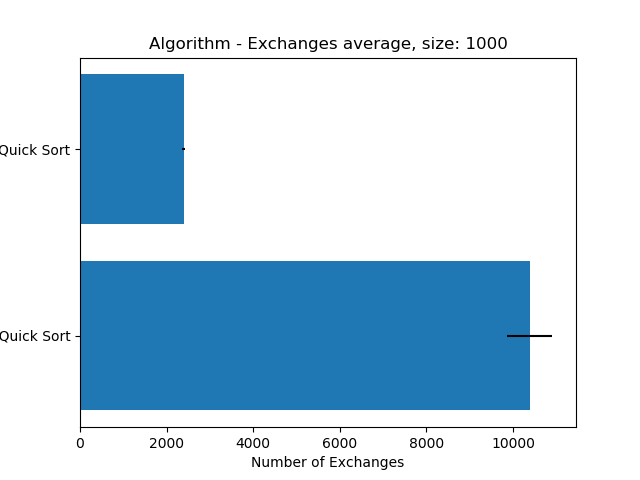
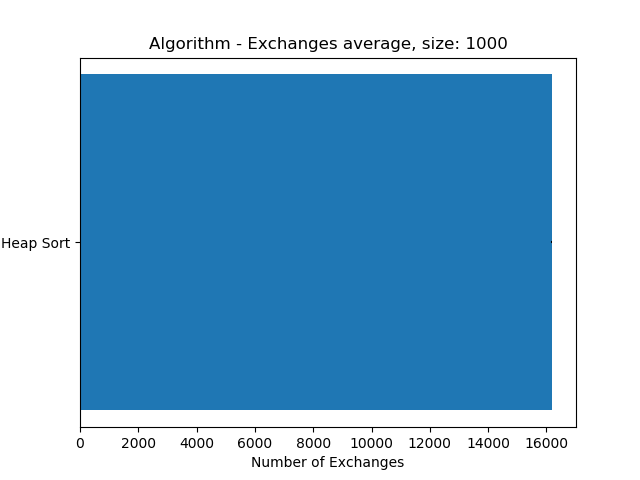
Feat(HeapSort)

diff --git a/Sort Compare/sort.py b/Sort Compare/sort.py
@@ -21,7 +21,8 @@ def get_sort_name(sort_id: str) -> str:
     dic = {'shell_sort': 'Shell Sort', 'selection_sort': 'Selection Sort',
            'insertion_sort': 'Insertion Sort', 'binary_insertion_sort': 'Binary Search Sort',
            'merge_sort': 'Merge Sort', 'quick_sort': 'Quick Sort', 'bubble_sort': 'Bubble Sort',
-           'comb_sort': 'Comb Sort', 'shake_sort': 'Shake Sort', 'improved_quick_sort': 'Improved Quick Sort'}
+           'comb_sort': 'Comb Sort', 'shake_sort': 'Shake Sort', 'improved_quick_sort': 'Improved Quick Sort',
+           'heap_sort': 'Heap Sort'}
     return dic[sort_id]
 
 
@@ -29,7 +30,8 @@ def get_sort_function(sort_id: str) -> function:
     dic = {'shell_sort': shell_sort, 'selection_sort': selection_sort,
            'insertion_sort': insertion_sort, 'binary_insertion_sort': binary_insertion_sort,
            'merge_sort': merge_sort, 'quick_sort': quick_sort, 'bubble_sort': bubble_sort,
-           'comb_sort': comb_sort, 'shake_sort': shake_sort, 'improved_quick_sort': improved_quick_sort}
+           'comb_sort': comb_sort, 'shake_sort': shake_sort, 'improved_quick_sort': improved_quick_sort,
+           'heap_sort': heap_sort}
     return dic[sort_id]
 
 
@@ -408,6 +410,122 @@ def exchange(arr: list, i: int, j: int):
     t = arr[i]
     arr[i] = arr[j]
     arr[j] = t
+
+
+# Heapsort e funções auxiliares
+def heap_sort(array: list) -> (list, int, int):
+    compares = 0
+    exchanges = 0
+    heap_size = len(array)
+    qtd_elementos = heap_size - 1
+
+    compares, exchanges = build_heap_auxiliar(array, compares, exchanges)
+
+    for i in range(qtd_elementos, 0, -1):
+        compares += 1
+        array[i], array[0] = array[0], array[i]  # troca
+        heap_size = heap_size - 1
+        compares, exchanges = heapify(array, 0, heap_size, compares, exchanges)
+
+    return array, compares, exchanges
+
+# igual a seguinte, mas faz o registro do log com base em operações anteriores e posteriores para que o heap_sort conte-as direito
+def build_heap_auxiliar(array: list, compares: int, exchanges: int) -> (int, int):
+    ultimo_pai = math.floor(len(array)/2)-1
+    for indice in range(ultimo_pai, -1, -1):             # range entre [ultimo_pai e -1| (i.e., 0)
+        compares, exchanges = heapify(array, indice, len(array), compares, exchanges)
+    return compares, exchanges
+
+
+# usada para construir heaps (fora do heap sort):
+def build_heap(array: list) -> (int, int):
+    compares = 0
+    exchanges = 0
+    ultimo_pai = math.floor(len(array)/2)-1
+    for indice in range(ultimo_pai, -1, -1):             # range entre [ultimo_pai e -1| (i.e., 0)
+        compares, exchanges = heapify(array, indice, len(array), compares, exchanges)
+    return compares, exchanges
+
+
+def filho_e(elemento: int):
+    return math.floor(elemento*2+1)
+
+
+def filho_d(elemento: int):
+    return math.floor(elemento*2+2)
+
+
+def pai(elemento: int):
+    return math.floor(elemento/2)
+
+
+# heapify: verifica se o elemento na posição passada é um heap e se não for transforma-o em um
+# parâmetros: array, índice do elemento a heapificar, tamanho do heap, dicionário de logs
+def heapify(array: list, elemento: int, heap_size: int, compares: int, exchanges: int) -> (int,int):
+    maior = elemento  # O maior é inicializado como o elemento mãe
+    filho_esq = filho_e(elemento)
+    filho_dir = filho_d(elemento)
+
+    # Verifica se o filho da esquerda, caso exista, é maior que o maior elemento atual
+    if filho_esq < heap_size and array[maior] < array[filho_esq]:
+        maior = filho_esq
+
+    # Verifica se o filho da direita, caso exista, é maior que o maior elemento atual
+    if filho_dir < heap_size and array[maior] < array[filho_dir]:
+        maior = filho_dir
+
+    compares += 2  # Atualiza o número de compareções baseado na comparação direita e esquerda
+
+    # Troca o maior elemento se necessário (quando houver troca)
+    if maior != elemento:
+        array[elemento], array[maior] = array[maior], array[elemento]
+        exchanges += 2  # Atualiza o número de trocas baseado na troca do novo maior elemento
+        # Aplica o Heapify novamente no maior elemento.
+        compares, exchanges = heapify(array, maior, heap_size, compares, exchanges)
+
+    return compares, exchanges
+
+
+def heap_get_max(heap: list) -> int:
+   if len(heap) == 0:
+      return -1
+
+   return heap[0]
+
+
+def heap_max(heap: list) -> (int, int, int):
+    compares = 0
+    exchanges = 0
+
+    if len(heap) == 0:
+        return -1
+
+    max = heap_get_max(heap)
+
+    heap[0] = heap[-1]
+    del heap[-1]
+
+    compares, exchanges = heapify(heap, 0, len(heap), compares, exchanges)
+
+    return max, compares, exchanges
+
+
+def heap_insert(heap: list, elemento: int) -> (int, int):
+    compares = 0
+    exchanges = 0
+    index = len(heap)
+    heap.append(elemento)
+
+    while index != 0:
+        p = pai(index)
+        if heap[p] < heap[index]:
+            heap[p], heap[index] = heap[index], heap[p]
+            exchanges += 2
+
+        compares += 1
+        index = p
+
+    return compares, exchanges
 
 
 # Verify if a list is in desc or asc order

diff --git a/Sort Compare/main.py b/Sort Compare/main.py
@@ -6,22 +6,11 @@ def main():
     repeat = 10
     jump = 10000
     size_min = 1000
-    size_max = 1001000
-
-    arr_type = 'D'
-
-    sort_list = sort.get_sorts(['improved_quick_sort'])
-
-    test.test_battery(repeat, size_min, size_max, jump, sort_list, arr_type)
-    arr_type = 'E'
-
-    sort_list = sort.get_sorts(['quick_sort', 'improved_quick_sort'])
-
-    test.test_battery(repeat, size_min, size_max, jump, sort_list, arr_type)
+    size_max = 101000
 
     arr_type = 'R'
 
-    sort_list = sort.get_sorts(['quick_sort', 'improved_quick_sort'])
+    sort_list = sort.get_sorts(['heap_sort'])
 
     test.test_battery(repeat, size_min, size_max, jump, sort_list, arr_type)
 
